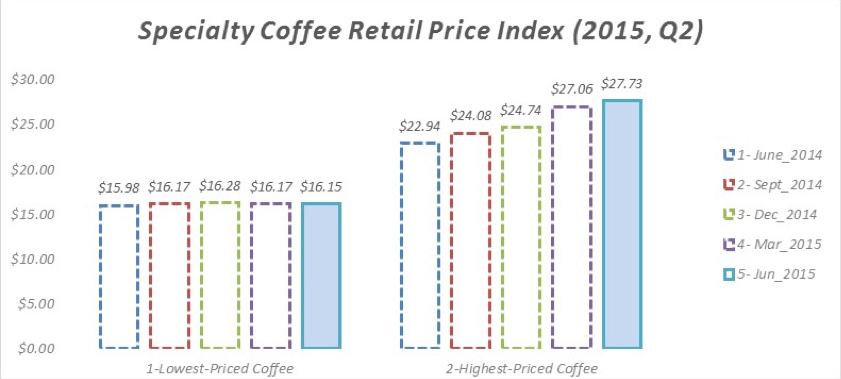
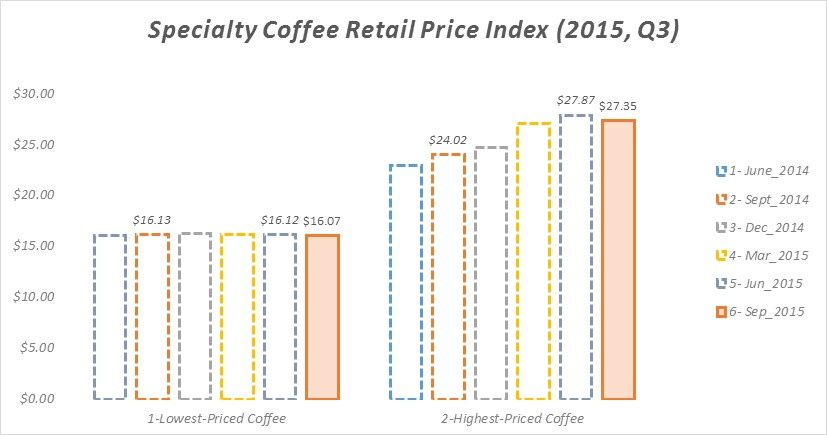
updated Q3 scrpi and image

diff --git a/public/app/templates/default/scrpi.php b/public/app/templates/default/scrpi.php
@@ -10,8 +10,8 @@
 </div>
 <div class="row">
     <div class="small-offset-1 small-10 large-12 large-offset-0 columns text-center">
-        <h1 class="page-header">Specialty Coffee Retail Price Index – 2015, Q2</h1>
-        <p>June 29, 2015</p>
+        <h1 class="page-header">Specialty Coffee Retail Price Index – 2015, Q3</h1>
+        <p>October 12, 2015</p>
     </div>
 </div>
 <div class="row">
@@ -22,9 +22,10 @@
 
 <div class="row">
     <div class="small-offset-1 small-10 large-12 large-offset-0 columns text-left">
-        <p class="light-font-smaller">In the second quarter of 2015, the Specialty Coffee Retail Price Index (SCRPI) rose by 1.5%.[1] The average price for roasted specialty coffee at the end of June, 2015 was $21.94 per pound. This breaks down into an average of $16.15 per pound for the lowest-priced coffees (-0.1%), and $27.73 for the highest-priced coffees (+2.5%) sold on the websites of the SCRPI roasters.</p>
-        <p class="light-font-smaller">The year-over-year increase in specialty coffee prices – from the second quarter of 2014 to the second quarter of 2015 – was 12.5%. This broke down into a 1.1% increase for the lowest-priced coffees, and a 20.9% increase for the highest-priced coffees.</p>
-        <p class="light-font-smaller">Note that the corresponding ICO Composite Price for green coffee fell to $1.25 per pound in June, 2015. Thus, while retail prices for specialty coffees continued to rise, commodity prices fell another 1.7% during the second quarter. Year-over-year, average retail prices for specialty coffees increased by 12.7%, while the ICO Composite Price fell by 17.8%</p>
+        <p class="light-font-smaller">In the third quarter of 2015, the SCRPI fell by 1.3%. The average price for roasted specialty coffee at the end of September, 2015 was $21.71 per pound. This breaks down into an average of $16.07 per pound for the lowest-priced coffees (-0.3%), and $27.35 for the highest-priced coffees (-1.9%) sold on the websites of the SCRPI roasters.</p>
+        <p class="light-font-smaller">The year-over-year increase in specialty coffee prices – from the third quarter of 2014 to the third quarter of 2015 – was 8.2%. This breaks down into a 0.4% decrease for the lowest-priced coffees, but a 13.9% increase for the highest-priced coffees.</p>
+        <p class="light-font-smaller">The corresponding ICO Composite Price for green coffee fell to $1.15 per pound in September 2015. Thus, as retail prices for specialty coffees fell by 1.3%, commodity prices fell by 7.9% during the third quarter. Year-over-year, as average retail prices for specialty coffees rose by 8.2%, the ICO Composite Price fell by 28.9%.</p>
+        <p class="light-font-smaller">* In 2014, Q3, the number of SCRPI roasters fell from 60 to 59, as Green Mountain Coffee was acquired by Keurig. In the first quarter of 2015, the number fell to 58 because the Supreme Bean website is under construction.</p>
     </div>
 </div>
 <div class="row">
